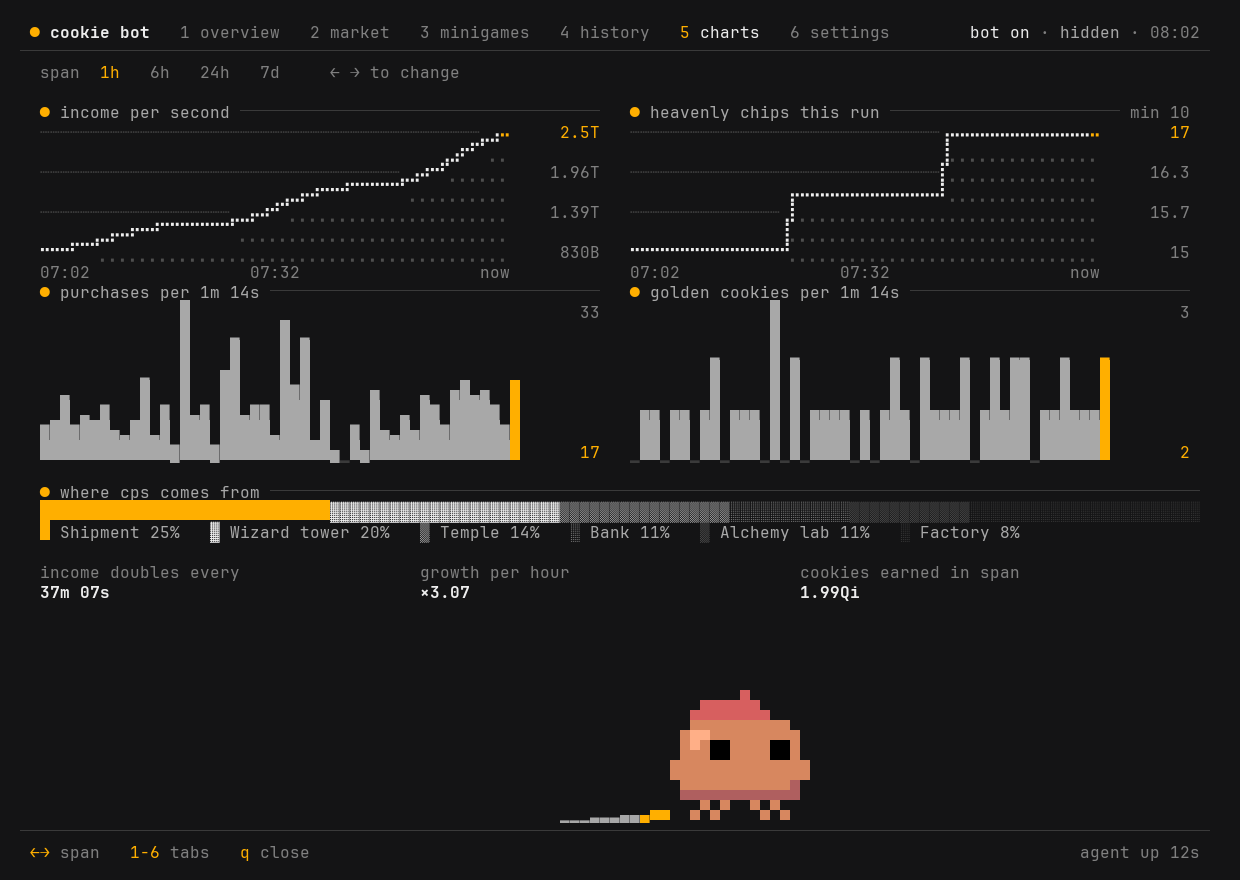
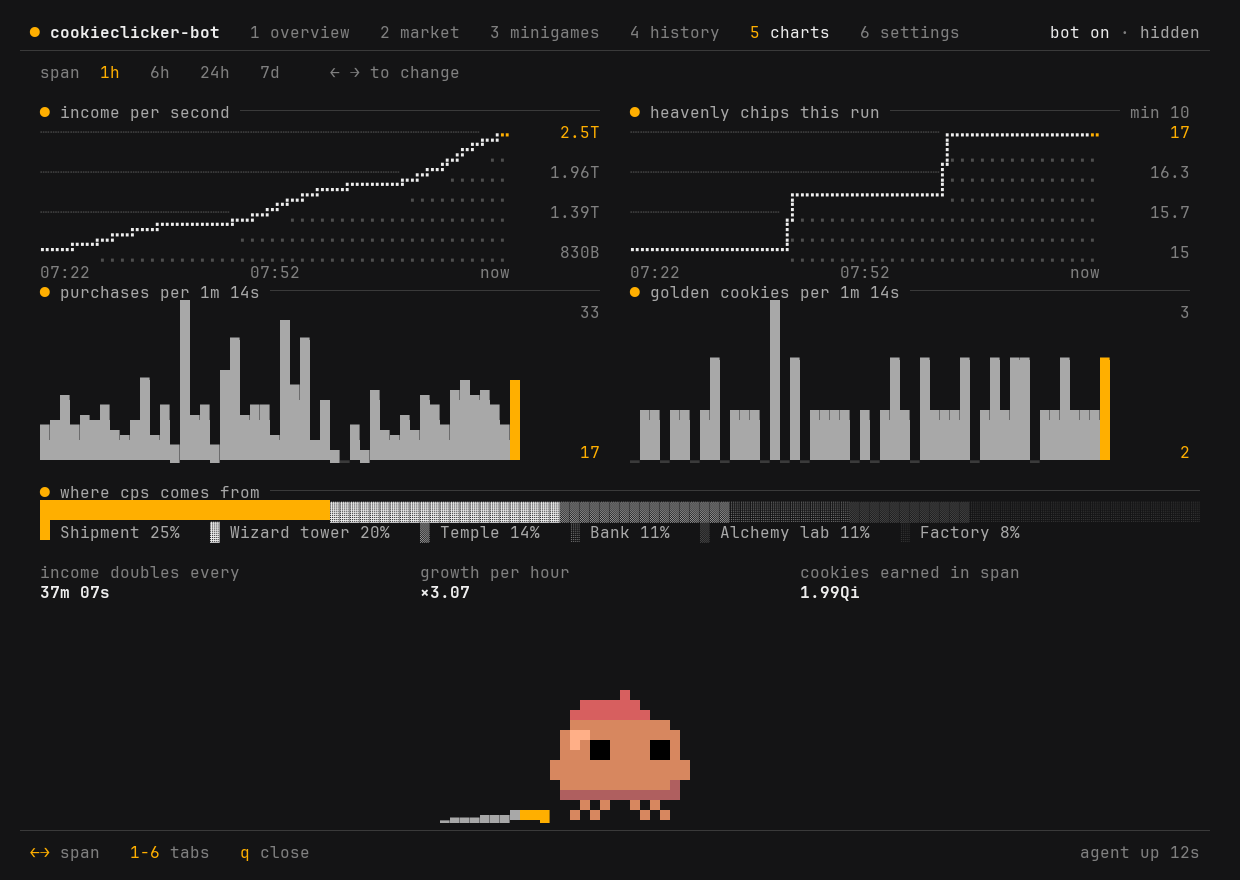
chore: rename project to CookieClicker-BOT
- GitHub repo renamed, clone URL and install path in both READMEs
- mod display name (mod ID stays 'cookie bot' so saved settings keep working)
- panel title cookieclicker-bot; header drops the clock when space is short
- screenshots re-rendered

Changed region(s): [[0.3677, 0.767, 0.6742, 0.9511], [0.0919, 0.0307, 0.9806, 0.0614]]

diff --git a/tui/cookie_tui.py b/tui/cookie_tui.py
@@ -555,7 +555,7 @@ class Panel:
 
         # header: dot, name, tabs, status
         self.put(0, 1, "●" if live else "○", p.amber if live else p.t3)
-        x = 3 + self.put(0, 3, "cookie bot", p.t1 | curses.A_BOLD) + 3
+        x = 3 + self.put(0, 3, "cookieclicker-bot", p.t1 | curses.A_BOLD) + 3
         for i, name in enumerate(TABS):
             act = i == self.tab
             x += self.put(0, x, str(i + 1), p.amber if act else p.t3)
@@ -565,7 +565,11 @@ class Panel:
             right.append(("bot on", p.t1) if s.get("enabled") else ("bot off", p.bad))
             right.append(("hidden", p.t2) if (s.get("window") or {}).get("hidden") else ("shown", p.t2))
         right.append((time.strftime("%H:%M"), p.t3))
-        rx = W - 2 - (sum(len(t) for t, _ in right) + 3 * (len(right) - 1))
+        def need(items):
+            return sum(len(t) for t, _ in items) + 3 * (len(items) - 1)
+        while len(right) > 1 and W - 2 - need(right) <= x:   # narrow: drop the clock, then window state
+            right.pop()
+        rx = W - 2 - need(right)
         if rx > x:
             for i, (t, a) in enumerate(right):
                 if i:
@@ -1452,7 +1456,7 @@ def print_status(s, agent):
     win = s.get("window") or {}
     bits = [c("t1", "bot on") if s.get("enabled") else c("bad", "bot off"),
             c("t2", "window hidden" if win.get("hidden") else "window shown")]
-    print(c("amber", "●") + " " + c("t1", "cookie bot") + "  " + c("t3", f"{s.get('name', '')} bakery") +
+    print(c("amber", "●") + " " + c("t1", "cookieclicker-bot") + "  " + c("t3", f"{s.get('name', '')} bakery") +
           "  " + c("t3", " · ").join(bits))
     rows = [("cookies", num(s["cookies"])), ("income", num(s["income"]) + "/s"),
             ("made by bot", num(s.get("botEarned")))]

diff --git a/README.md b/README.md
@@ -2,9 +2,9 @@
 
 **Русский** · [English](README.en.md)
 
-<img src="docs/clawd.gif" alt="Clawd катит печеньку по панели" width="720">
+<img src="docs/clawd.gif" alt="CookieClicker-BOT: Clawd катит печеньку по панели" width="720">
 
-# Cookie Bot
+# CookieClicker-BOT
 
 **Бот, который сам играет в Cookie Clicker из Steam в фоне, и терминальная панель, через которую за ним можно подглядывать.**
 
@@ -92,7 +92,7 @@
 ```mermaid
 flowchart LR
     subgraph Steam["Steam · Proton"]
-        G["Cookie Clicker<br/>(скрытое окно)"] --- M["мод Cookie Bot<br/>main.js"]
+        G["Cookie Clicker<br/>(скрытое окно)"] --- M["мод CookieClicker-BOT<br/>main.js"]
     end
     M -- "снимок каждые 0.5 с" --> A["агент<br/>127.0.0.1:17777"]
     A -- "команды в очереди" --> M
@@ -113,16 +113,16 @@ Linux со Steam и Proton, Python 3 (только стандартная биб
 ```sh
 # 1. положить мод туда, где игра ищет локальные моды
 cd "$HOME/.local/share/Steam/steamapps/common/Cookie Clicker/resources/app/mods/local"
-git clone https://github.com/d1sold/cookie-bot.git cookieBot
+git clone https://github.com/d1sold/CookieClicker-BOT.git
 
 # 2. пропатчить start.js и поставить команду CookieClicker (игру сначала закрыть)
-./cookieBot/install.sh
+./CookieClicker-BOT/install.sh
 
 # 3. поехали
 CookieClicker
 ```
 
-Если мод не включился сам, один раз включи **Cookie Bot** в игре: *Options → Mods*. После обновления игры в Steam или «Проверки целостности файлов» запусти `install.sh` ещё раз.
+Если мод не включился сам, один раз включи **CookieClicker-BOT** в игре: *Options → Mods*. После обновления игры в Steam или «Проверки целостности файлов» запусти `install.sh` ещё раз.
 
 ## Как пользоваться
 

diff --git a/README.en.md b/README.en.md
@@ -2,9 +2,9 @@
 
 [Русский](README.md) · **English**
 
-<img src="docs/clawd.gif" alt="Clawd pushing a cookie across the panel" width="720">
+<img src="docs/clawd.gif" alt="CookieClicker-BOT: Clawd pushing a cookie across the panel" width="720">
 
-# Cookie Bot
+# CookieClicker-BOT
 
 **A bot that plays Steam Cookie Clicker in the background and a terminal dashboard that lets you look in.**
 
@@ -92,7 +92,7 @@ The Claude Code mascot lives above the footer and puts on a costume on every tab
 ```mermaid
 flowchart LR
     subgraph Steam["Steam · Proton"]
-        G["Cookie Clicker<br/>(hidden window)"] --- M["Cookie Bot mod<br/>main.js"]
+        G["Cookie Clicker<br/>(hidden window)"] --- M["CookieClicker-BOT mod<br/>main.js"]
     end
     M -- "snapshot every 0.5 s" --> A["agent<br/>127.0.0.1:17777"]
     A -- "queued commands" --> M
@@ -113,16 +113,16 @@ Linux with Steam and Proton, Python 3 (standard library only).
 ```sh
 # 1. put the mod where the game looks for local mods
 cd "$HOME/.local/share/Steam/steamapps/common/Cookie Clicker/resources/app/mods/local"
-git clone https://github.com/d1sold/cookie-bot.git cookieBot
+git clone https://github.com/d1sold/CookieClicker-BOT.git
 
 # 2. patch start.js and install the CookieClicker command (close the game first)
-./cookieBot/install.sh
+./CookieClicker-BOT/install.sh
 
 # 3. go
 CookieClicker
 ```
 
-Enable **Cookie Bot** once in the game's *Options → Mods* if it isn't already on. After a Steam update or *Verify integrity*, run `install.sh` again.
+Enable **CookieClicker-BOT** once in the game's *Options → Mods* if it isn't already on. After a Steam update or *Verify integrity*, run `install.sh` again.
 
 ## Use
 
